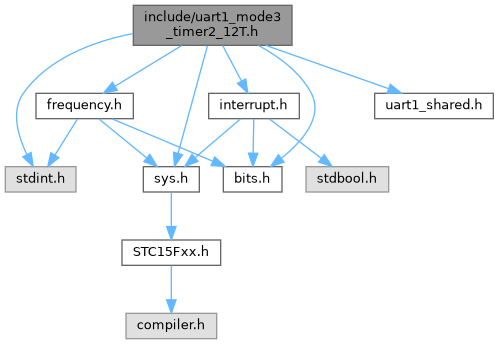
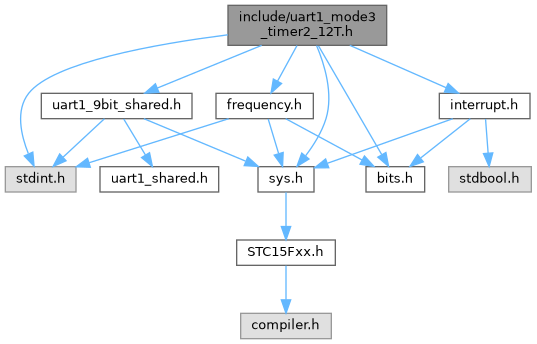
uart1_send_9bit for 9 bit modes 2, 3 C-function implemented

diff --git a/docs/html/sys_8h.html b/docs/html/sys_8h.html
@@ -96,45 +96,45 @@ This graph shows which files directly or indirectly include this file:</div>
 <div class="dyncontent">
 <div class="center"><img src="sys_8h__dep__incl.png" border="0" usemap="#ainclude_2sys_8hdep" alt=""/></div>
 <map name="ainclude_2sys_8hdep" id="ainclude_2sys_8hdep">
-<area shape="rect" title=" " alt="" coords="1633,5,1740,31"/>
+<area shape="rect" title=" " alt="" coords="1459,5,1565,31"/>
 <area shape="rect" href="chip__id_8h.html" title=" " alt="" coords="5,86,136,111"/>
-<area shape="poly" title=" " alt="" coords="1620,23,900,40,470,57,290,68,155,81,115,89,114,83,154,76,290,63,470,52,900,34,1620,18"/>
+<area shape="poly" title=" " alt="" coords="1445,23,806,42,430,59,273,69,155,81,115,89,114,83,154,76,273,64,430,54,806,36,1445,18"/>
 <area shape="rect" href="frequency_8h.html" title=" " alt="" coords="489,86,637,111"/>
-<area shape="poly" title=" " alt="" coords="1620,26,786,81,637,93,637,88,785,76,1620,21"/>
+<area shape="poly" title=" " alt="" coords="1445,27,763,81,637,93,636,88,762,76,1444,22"/>
 <area shape="rect" href="uart1__mode1__timer2__12T_8h.html" title=" " alt="" coords="542,167,701,207"/>
-<area shape="poly" title=" " alt="" coords="1620,24,1357,40,1191,57,1023,81,928,101,834,124,680,169,678,164,833,119,927,96,1022,76,1190,52,1357,35,1620,19"/>
+<area shape="poly" title=" " alt="" coords="1445,21,1333,23,1188,31,1026,49,944,63,865,81,806,100,748,123,656,169,653,164,746,118,804,95,863,76,943,58,1025,44,1187,26,1333,18,1445,16"/>
 <area shape="rect" href="uart1__mode1__timer2__1T_8h.html" title=" " alt="" coords="725,167,883,207"/>
-<area shape="poly" title=" " alt="" coords="1620,27,1424,45,1305,61,1186,81,1096,101,1007,125,861,169,859,164,1006,120,1095,96,1185,76,1304,56,1424,40,1619,21"/>
+<area shape="poly" title=" " alt="" coords="1445,24,1321,29,1172,40,1030,57,973,68,930,81,897,99,867,123,821,168,818,164,863,119,894,95,928,76,972,63,1029,51,1171,34,1321,24,1445,19"/>
 <area shape="rect" href="uart_8h.html" title=" " alt="" coords="118,255,229,280"/>
-<area shape="poly" title=" " alt="" coords="1620,23,1379,26,1048,36,717,53,580,66,476,81,405,95,349,107,298,129,239,169,218,189,202,213,180,256,175,253,197,211,214,186,236,165,295,124,347,102,404,89,476,76,579,61,717,48,1048,31,1379,21,1619,17"/>
+<area shape="poly" title=" " alt="" coords="1445,23,1236,29,956,39,678,56,563,68,476,81,405,95,349,107,298,129,239,169,218,189,202,213,180,256,175,253,197,211,214,186,236,165,295,124,347,102,404,90,476,76,563,63,678,51,956,34,1236,23,1445,18"/>
 <area shape="rect" href="uart1__mode3__timer2__12T_8h.html" title=" " alt="" coords="907,167,1066,207"/>
-<area shape="poly" title=" " alt="" coords="1620,31,1488,51,1335,81,1174,126,1041,169,1039,164,1173,121,1334,76,1487,46,1619,25"/>
-<area shape="rect" href="interrupt_8h.html" title=" " alt="" coords="1508,86,1649,111"/>
-<area shape="poly" title=" " alt="" coords="1661,41,1596,88,1593,84,1658,37"/>
+<area shape="poly" title=" " alt="" coords="1460,37,1313,81,1043,169,1042,164,1311,76,1459,32"/>
+<area shape="rect" href="interrupt_8h.html" title=" " alt="" coords="1441,86,1583,111"/>
+<area shape="poly" title=" " alt="" coords="1515,44,1515,86,1509,86,1509,44"/>
 <area shape="rect" href="timer0__mode0_8h.html" title=" " alt="" coords="1090,174,1270,199"/>
-<area shape="poly" title=" " alt="" coords="1620,35,1535,55,1442,81,1308,132,1205,176,1203,171,1306,127,1441,76,1533,50,1619,30"/>
+<area shape="poly" title=" " alt="" coords="1478,39,1204,176,1202,171,1476,34"/>
 <area shape="rect" href="timer0__mode1_8h.html" title=" " alt="" coords="2425,174,2605,199"/>
-<area shape="poly" title=" " alt="" coords="1690,44,1698,83,1707,101,1720,117,1737,124,1763,131,1842,142,2060,154,2280,159,2412,164,2459,171,2458,177,2412,169,2280,164,2059,160,1842,148,1762,137,1735,129,1717,121,1702,104,1693,84,1685,45"/>
+<area shape="poly" title=" " alt="" coords="1541,37,1653,116,1724,133,1815,144,1918,151,2029,153,2245,156,2338,158,2412,164,2459,171,2458,177,2412,169,2338,164,2245,161,2029,159,1918,156,1814,150,1723,139,1651,121,1538,41"/>
 <area shape="rect" href="timer0__mode2_8h.html" title=" " alt="" coords="2629,174,2809,199"/>
-<area shape="poly" title=" " alt="" coords="1701,42,1729,82,1748,101,1771,116,1805,130,1847,142,1947,156,2062,163,2186,163,2429,159,2534,159,2618,164,2665,171,2664,177,2617,169,2534,164,2430,164,2186,169,2062,168,1946,161,1846,147,1804,135,1768,121,1745,105,1725,85,1697,45"/>
+<area shape="poly" title=" " alt="" coords="1555,34,1645,76,1674,99,1686,108,1704,116,1789,136,1899,148,2024,154,2157,155,2416,156,2528,158,2618,164,2665,171,2664,177,2617,169,2528,163,2416,161,2156,161,2023,159,1898,153,1789,141,1702,121,1683,113,1671,103,1643,81,1553,38"/>
 <area shape="rect" href="timer0__mode3_8h.html" title=" " alt="" coords="2833,174,3013,199"/>
-<area shape="poly" title=" " alt="" coords="1715,37,1768,77,1794,100,1805,108,1821,116,1864,129,1915,139,2034,152,2171,158,2316,159,2601,156,2723,158,2822,164,2869,171,2868,177,2821,169,2723,163,2601,162,2316,164,2171,163,2034,157,1914,144,1863,134,1819,121,1802,113,1790,104,1765,81,1711,41"/>
+<area shape="poly" title=" " alt="" coords="1571,32,1631,51,1693,76,1711,87,1724,98,1736,108,1754,116,1801,128,1855,138,1983,150,2128,156,2284,157,2587,155,2717,157,2822,164,2869,171,2868,177,2821,169,2717,163,2587,161,2284,163,2128,161,1982,156,1854,143,1799,134,1752,121,1733,112,1720,102,1708,92,1691,81,1629,56,1570,37"/>
 <area shape="rect" href="timer2__mode0_8h.html" title=" " alt="" coords="1294,174,1474,199"/>
-<area shape="poly" title=" " alt="" coords="1621,35,1559,53,1497,81,1465,104,1436,130,1395,175,1391,172,1433,126,1462,99,1495,76,1557,48,1619,30"/>
+<area shape="poly" title=" " alt="" coords="1479,40,1454,58,1431,80,1416,104,1404,131,1389,174,1384,173,1399,129,1411,102,1427,77,1451,54,1476,36"/>
 <area shape="rect" href="uart1__mode0_8h.html" title=" " alt="" coords="3037,174,3208,199"/>
-<area shape="poly" title=" " alt="" coords="1728,34,1813,76,1842,99,1854,108,1872,116,1922,130,1980,140,2118,153,2276,159,2444,159,2772,155,2913,157,3026,164,3071,171,3070,177,3025,169,2912,162,2772,161,2444,165,2276,164,2118,159,1979,145,1920,135,1870,121,1851,113,1839,103,1811,81,1725,39"/>
+<area shape="poly" title=" " alt="" coords="1579,28,1659,47,1742,76,1761,87,1774,98,1787,108,1805,116,1858,130,1920,140,2066,153,2233,159,2411,159,2757,155,2906,156,3026,164,3071,171,3070,177,3025,169,2906,162,2757,160,2411,164,2233,164,2066,159,1919,145,1857,135,1803,121,1784,112,1771,102,1758,91,1740,81,1657,52,1578,33"/>
 <area shape="rect" href="uart1__mode2_8h.html" title=" " alt="" coords="3232,174,3403,199"/>
-<area shape="poly" title=" " alt="" coords="1745,32,1802,51,1861,76,1878,87,1889,98,1900,108,1917,116,1973,132,2039,144,2195,158,2373,164,2563,163,2933,156,3093,156,3220,164,3266,171,3266,177,3220,169,3092,162,2933,161,2563,168,2373,169,2195,164,2039,149,1972,137,1915,121,1897,112,1886,102,1874,92,1859,81,1800,56,1744,37"/>
-<area shape="rect" href="pin_8h.html" title=" " alt="" coords="1927,86,2033,111"/>
-<area shape="poly" title=" " alt="" coords="1743,32,1938,83,1937,89,1742,37"/>
-<area shape="rect" href="power__management_8h.html" title=" " alt="" coords="2057,86,2276,111"/>
-<area shape="poly" title=" " alt="" coords="1754,28,2097,83,2096,89,1753,33"/>
-<area shape="rect" href="reset_8h.html" title=" " alt="" coords="2301,86,2419,111"/>
-<area shape="poly" title=" " alt="" coords="1754,20,1991,37,2139,54,2288,76,2321,83,2320,89,2288,81,2139,59,1990,43,1753,25"/>
-<area shape="rect" href="uart1__9bit__shared_8h_source.html" title=" " alt="" coords="2444,79,2583,119"/>
-<area shape="poly" title=" " alt="" coords="1754,19,2049,35,2240,52,2432,76,2444,78,2443,83,2432,81,2240,57,2049,40,1754,24"/>
-<area shape="rect" href="wdt_8h.html" title=" " alt="" coords="2607,86,2716,111"/>
-<area shape="poly" title=" " alt="" coords="1754,16,1905,18,2114,26,2354,44,2476,58,2595,76,2627,83,2625,89,2594,81,2475,64,2353,50,2114,32,1905,24,1754,22"/>
+<area shape="poly" title=" " alt="" coords="1580,24,1681,42,1738,57,1792,76,1809,87,1821,98,1833,108,1850,116,1887,124,1944,131,2103,141,2532,151,2962,156,3124,159,3220,164,3266,171,3266,177,3220,169,3123,164,2962,161,2532,157,2103,146,1943,136,1886,129,1848,121,1830,112,1818,102,1806,91,1790,81,1736,62,1680,47,1579,29"/>
+<area shape="rect" href="pin_8h.html" title=" " alt="" coords="1861,86,1966,111"/>
+<area shape="poly" title=" " alt="" coords="1580,27,1702,48,1842,76,1872,83,1871,89,1841,81,1701,54,1579,33"/>
+<area shape="rect" href="power__management_8h.html" title=" " alt="" coords="1991,86,2209,111"/>
+<area shape="poly" title=" " alt="" coords="1579,25,1979,76,2029,83,2028,89,1978,81,1579,30"/>
+<area shape="rect" href="reset_8h.html" title=" " alt="" coords="2234,86,2353,111"/>
+<area shape="poly" title=" " alt="" coords="1579,18,1860,34,2041,51,2222,76,2255,83,2254,89,2221,81,2040,56,1860,39,1579,24"/>
+<area shape="rect" href="uart1__9bit__shared_8h_source.html" title=" " alt="" coords="941,79,1080,119"/>
+<area shape="poly" title=" " alt="" coords="1445,32,1081,89,1080,84,1444,27"/>
+<area shape="rect" href="wdt_8h.html" title=" " alt="" coords="2377,86,2487,111"/>
+<area shape="poly" title=" " alt="" coords="1579,17,1722,19,1918,28,2141,46,2255,59,2366,76,2397,83,2396,89,2365,81,2254,64,2140,51,1918,33,1722,25,1579,22"/>
 <area shape="rect" href="delay_8h.html" title=" " alt="" coords="650,255,769,280"/>
 <area shape="poly" title=" " alt="" coords="547,124,535,143,527,165,524,186,531,205,549,219,579,232,652,252,651,257,577,237,547,224,527,208,519,187,522,163,531,141,542,122"/>
 <area shape="rect" href="timer0__to__ms_8h.html" title=" " alt="" coords="253,255,427,280"/>
@@ -152,29 +152,30 @@ This graph shows which files directly or indirectly include this file:</div>
 <area shape="poly" title=" " alt="" coords="400,209,510,252,508,257,398,214"/>
 <area shape="poly" title=" " alt="" coords="711,209,578,226,474,235,371,242,240,257,229,259,229,254,240,252,370,237,473,229,577,221,711,204"/>
 <area shape="poly" title=" " alt="" coords="243,278,580,327,579,332,242,283"/>
-<area shape="poly" title=" " alt="" coords="1494,106,1152,125,933,143,712,169,701,171,700,166,712,164,932,138,1151,119,1494,100"/>
-<area shape="poly" title=" " alt="" coords="1495,108,1227,130,1061,147,895,169,884,171,883,166,894,164,1060,142,1226,124,1494,103"/>
-<area shape="poly" title=" " alt="" coords="1495,112,1303,136,1078,169,1067,171,1066,166,1077,164,1303,130,1494,107"/>
+<area shape="poly" title=" " alt="" coords="1428,106,1112,127,913,145,712,169,701,171,700,166,712,164,912,139,1112,121,1427,101"/>
+<area shape="poly" title=" " alt="" coords="1428,109,1188,132,1041,149,895,169,884,171,883,166,894,164,1041,143,1187,127,1427,104"/>
+<area shape="poly" title=" " alt="" coords="1428,114,1265,138,1078,169,1067,171,1066,166,1077,164,1265,133,1427,109"/>
 <area shape="rect" href="counter0__mode0_8h.html" title=" " alt="" coords="1549,174,1744,199"/>
-<area shape="poly" title=" " alt="" coords="1599,121,1639,172,1635,175,1594,124"/>
+<area shape="poly" title=" " alt="" coords="1543,117,1630,171,1627,176,1540,121"/>
 <area shape="rect" href="counter0__mode1_8h.html" title=" " alt="" coords="1104,255,1299,280"/>
-<area shape="poly" title=" " alt="" coords="1567,125,1534,168,1512,190,1487,209,1441,231,1393,246,1299,264,1298,258,1392,241,1439,226,1484,204,1509,186,1530,165,1563,121"/>
+<area shape="poly" title=" " alt="" coords="1515,126,1510,168,1501,190,1487,209,1456,226,1410,241,1299,259,1298,254,1408,235,1454,222,1484,205,1496,187,1504,167,1510,125"/>
 <area shape="rect" href="counter0__mode2_8h.html" title=" " alt="" coords="1768,174,1963,199"/>
-<area shape="poly" title=" " alt="" coords="1631,113,1828,171,1826,176,1629,118"/>
+<area shape="poly" title=" " alt="" coords="1573,112,1819,171,1818,177,1572,117"/>
 <area shape="rect" href="counter0__mode3_8h.html" title=" " alt="" coords="1987,174,2181,199"/>
-<area shape="poly" title=" " alt="" coords="1645,111,1668,116,1822,141,1975,164,2019,171,2018,177,1974,169,1821,146,1668,121,1644,117"/>
+<area shape="poly" title=" " alt="" coords="1577,111,1602,116,1706,132,1788,141,1975,164,2020,171,2019,177,1974,169,1788,146,1706,137,1601,121,1576,117"/>
 <area shape="rect" href="counter2__mode0_8h.html" title=" " alt="" coords="2205,174,2400,199"/>
-<area shape="poly" title=" " alt="" coords="1642,111,1668,116,1815,134,1931,142,2046,149,2194,164,2241,171,2241,177,2193,169,2046,154,1930,147,1815,139,1668,121,1641,117"/>
-<area shape="poly" title=" " alt="" coords="1513,117,1234,177,1232,171,1512,112"/>
-<area shape="poly" title=" " alt="" coords="1641,111,1668,116,1781,129,1877,137,2040,142,2203,146,2299,152,2412,164,2459,171,2458,177,2412,169,2299,158,2203,151,2040,147,1876,142,1780,135,1668,121,1640,117"/>
-<area shape="poly" title=" " alt="" coords="1663,110,1719,116,1856,127,1971,133,2168,136,2365,142,2481,150,2618,164,2665,171,2664,177,2617,169,2481,155,2365,147,2168,142,1971,138,1855,132,1718,121,1663,115"/>
-<area shape="poly" title=" " alt="" coords="1663,107,1770,116,1930,125,2065,130,2296,133,2527,139,2662,148,2822,164,2869,171,2868,177,2821,169,2662,153,2526,144,2296,138,2065,135,1929,131,1769,121,1663,112"/>
-<area shape="poly" title=" " alt="" coords="1541,120,1412,176,1409,171,1539,115"/>
-<area shape="poly" title=" " alt="" coords="1663,105,1820,116,2004,125,2159,128,2424,129,2688,135,2843,146,3026,164,3071,171,3070,177,3025,169,2842,151,2687,140,2424,134,2159,133,2004,130,1820,121,1663,110"/>
-<area shape="poly" title=" " alt="" coords="1663,103,1871,116,2076,124,2251,127,2546,126,2689,127,2842,132,3016,144,3220,164,3266,171,3266,177,3220,169,3015,149,2842,138,2689,132,2546,131,2250,132,2076,129,1871,121,1663,109"/>
+<area shape="poly" title=" " alt="" coords="1575,111,1602,116,1767,135,1897,142,2027,148,2194,164,2242,171,2241,177,2193,169,2027,153,1897,147,1767,140,1601,121,1574,117"/>
+<area shape="poly" title=" " alt="" coords="1455,117,1225,177,1224,171,1454,112"/>
+<area shape="poly" title=" " alt="" coords="1574,111,1602,116,1724,130,1829,138,2007,142,2185,145,2289,152,2412,164,2459,171,2458,177,2412,169,2289,157,2184,150,2006,147,1828,143,1724,135,1601,121,1573,117"/>
+<area shape="poly" title=" " alt="" coords="1597,110,1652,116,1799,127,1923,133,2135,136,2347,141,2471,149,2618,164,2665,171,2664,177,2617,169,2471,155,2347,146,2135,141,1923,138,1799,133,1652,121,1596,115"/>
+<area shape="poly" title=" " alt="" coords="1597,107,1703,116,1873,126,2017,130,2263,132,2508,138,2652,147,2822,164,2869,171,2868,177,2821,169,2651,153,2508,143,2263,137,2017,136,1873,131,1702,121,1596,112"/>
+<area shape="poly" title=" " alt="" coords="1485,121,1403,176,1400,172,1482,117"/>
+<area shape="poly" title=" " alt="" coords="1596,105,1753,116,1947,125,2111,128,2390,128,2525,129,2669,134,2833,145,3026,164,3072,171,3071,177,3025,169,2832,150,2669,139,2525,135,2390,133,2111,134,1947,130,1753,121,1596,110"/>
+<area shape="poly" title=" " alt="" coords="1597,103,1804,116,2020,124,2203,127,2513,125,2663,126,2823,131,3006,143,3220,164,3266,171,3266,177,3220,169,3005,148,2823,137,2663,131,2513,131,2203,132,2020,129,1804,121,1596,109"/>
 <area shape="poly" title=" " alt="" coords="1117,285,828,331,827,325,1116,280"/>
 <area shape="poly" title=" " alt="" coords="1111,204,1078,209,898,228,759,237,618,244,439,257,428,258,427,253,438,252,618,238,758,231,898,223,1077,204,1110,199"/>
 <area shape="poly" title=" " alt="" coords="1315,204,1282,209,1101,228,960,237,819,244,638,257,627,258,626,253,637,252,818,238,960,232,1101,223,1281,204,1314,199"/>
+<area shape="poly" title=" " alt="" coords="1004,133,995,167,989,166,999,131"/>
 </map>
 </div>
 </div>

diff --git a/docs/html/uart1__mode3__timer2__12T_8h.html b/docs/html/uart1__mode3__timer2__12T_8h.html
@@ -84,36 +84,40 @@ $(function() {
 <code>#include &lt;bits.h&gt;</code><br />
 <code>#include &lt;<a class="el" href="frequency_8h_source.html">frequency.h</a>&gt;</code><br />
 <code>#include &lt;<a class="el" href="interrupt_8h_source.html">interrupt.h</a>&gt;</code><br />
-<code>#include &lt;<a class="el" href="uart1__shared_8h_source.html">uart1_shared.h</a>&gt;</code><br />
+<code>#include &lt;uart1_9bit_shared.h&gt;</code><br />
 </div><div class="textblock"><div class="dynheader">
 Include dependency graph for uart1_mode3_timer2_12T.h:</div>
 <div class="dyncontent">
 <div class="center"><img src="uart1__mode3__timer2__12T_8h__incl.png" border="0" usemap="#ainclude_2uart1__mode3__timer2__12T_8h" alt=""/></div>
 <map name="ainclude_2uart1__mode3__timer2__12T_8h" id="ainclude_2uart1__mode3__timer2__12T_8h">
-<area shape="rect" title=" " alt="" coords="133,5,292,45"/>
+<area shape="rect" title=" " alt="" coords="228,5,387,45"/>
 <area shape="rect" title=" " alt="" coords="5,167,76,192"/>
-<area shape="poly" title=" " alt="" coords="134,36,103,44,74,56,47,72,26,95,20,108,20,123,29,154,24,155,14,124,15,107,21,92,44,68,71,51,102,39,132,31"/>
-<area shape="rect" href="sys_8h.html" title=" " alt="" coords="143,167,199,192"/>
-<area shape="poly" title=" " alt="" coords="210,47,181,154,175,153,205,45"/>
-<area shape="rect" href="bits_8h_source.html" title=" " alt="" coords="223,167,282,192"/>
-<area shape="poly" title=" " alt="" coords="260,43,290,63,314,92,317,111,311,130,299,146,283,160,280,156,295,143,306,127,312,111,309,94,286,67,257,48"/>
-<area shape="rect" href="frequency_8h.html" title=" " alt="" coords="36,93,133,119"/>
-<area shape="poly" title=" " alt="" coords="183,48,116,88,114,84,180,43"/>
-<area shape="rect" href="interrupt_8h.html" title=" " alt="" coords="209,93,299,119"/>
-<area shape="poly" title=" " alt="" coords="225,44,244,80,239,82,220,47"/>
-<area shape="rect" href="uart1__shared_8h.html" title=" " alt="" coords="375,93,493,119"/>
-<area shape="poly" title=" " alt="" coords="267,43,389,86,388,91,265,48"/>
-<area shape="rect" href="STC15Fxx_8h_source.html" title=" " alt="" coords="122,240,221,265"/>
-<area shape="poly" title=" " alt="" coords="174,192,174,226,169,226,169,192"/>
-<area shape="rect" title=" " alt="" coords="126,313,217,339"/>
-<area shape="poly" title=" " alt="" coords="174,266,174,300,169,300,169,266"/>
-<area shape="poly" title=" " alt="" coords="80,120,57,156,53,154,75,118"/>
-<area shape="poly" title=" " alt="" coords="100,117,148,156,145,160,97,121"/>
-<area shape="poly" title=" " alt="" coords="113,116,214,159,212,164,111,121"/>
-<area shape="poly" title=" " alt="" coords="242,121,197,160,194,155,239,117"/>
-<area shape="poly" title=" " alt="" coords="256,119,256,153,250,153,251,119"/>
-<area shape="rect" title=" " alt="" coords="306,167,389,192"/>
-<area shape="poly" title=" " alt="" coords="271,117,323,156,320,160,267,121"/>
+<area shape="poly" title=" " alt="" coords="228,37,170,46,111,59,61,75,43,84,31,95,25,108,23,123,31,153,26,154,18,123,19,107,27,92,40,80,59,70,109,53,169,41,227,32"/>
+<area shape="rect" href="sys_8h.html" title=" " alt="" coords="258,167,314,192"/>
+<area shape="poly" title=" " alt="" coords="319,45,330,79,332,100,329,119,320,140,308,157,303,154,315,137,323,118,326,99,325,80,314,46"/>
+<area shape="rect" href="bits_8h_source.html" title=" " alt="" coords="366,167,425,192"/>
+<area shape="poly" title=" " alt="" coords="321,44,384,153,379,156,316,47"/>
+<area shape="rect" href="frequency_8h.html" title=" " alt="" coords="216,93,313,119"/>
+<area shape="poly" title=" " alt="" coords="299,47,280,83,275,80,295,44"/>
+<area shape="rect" href="interrupt_8h.html" title=" " alt="" coords="439,93,530,119"/>
+<area shape="poly" title=" " alt="" coords="351,43,447,85,445,90,349,48"/>
+<area shape="rect" href="uart1__9bit__shared_8h_source.html" title=" " alt="" coords="41,93,192,119"/>
+<area shape="poly" title=" " alt="" coords="263,48,158,91,156,86,261,43"/>
+<area shape="rect" href="STC15Fxx_8h_source.html" title=" " alt="" coords="237,240,335,265"/>
+<area shape="poly" title=" " alt="" coords="289,192,289,226,283,226,283,192"/>
+<area shape="rect" title=" " alt="" coords="241,313,331,339"/>
+<area shape="poly" title=" " alt="" coords="289,266,289,300,283,300,283,266"/>
+<area shape="poly" title=" " alt="" coords="229,121,90,165,88,160,228,116"/>
+<area shape="poly" title=" " alt="" coords="271,118,281,153,276,154,266,120"/>
+<area shape="poly" title=" " alt="" coords="287,116,363,158,361,162,284,121"/>
+<area shape="poly" title=" " alt="" coords="454,121,328,166,327,161,452,116"/>
+<area shape="poly" title=" " alt="" coords="472,121,422,160,419,156,469,117"/>
+<area shape="rect" title=" " alt="" coords="449,167,531,192"/>
+<area shape="poly" title=" " alt="" coords="488,119,491,153,485,153,483,119"/>
+<area shape="poly" title=" " alt="" coords="106,121,65,159,61,155,103,117"/>
+<area shape="poly" title=" " alt="" coords="145,116,247,159,245,164,143,121"/>
+<area shape="rect" href="uart1__shared_8h.html" title=" " alt="" coords="100,167,219,192"/>
+<area shape="poly" title=" " alt="" coords="126,118,148,154,143,156,121,120"/>
 </map>
 </div>
 </div>

diff --git a/docs/html/uart1__shared_8h.html b/docs/html/uart1__shared_8h.html
@@ -84,22 +84,24 @@ This graph shows which files directly or indirectly include this file:</div>
 <div class="dyncontent">
 <div class="center"><img src="uart1__shared_8h__dep__incl.png" border="0" usemap="#ainclude_2uart1__shared_8hdep" alt=""/></div>
 <map name="ainclude_2uart1__shared_8hdep" id="ainclude_2uart1__shared_8hdep">
-<area shape="rect" title=" " alt="" coords="309,5,480,31"/>
-<area shape="rect" href="uart_8h.html" title=" " alt="" coords="183,167,294,192"/>
-<area shape="poly" title=" " alt="" coords="295,24,215,28,132,38,62,55,36,67,19,80,9,99,13,115,27,129,51,141,116,159,183,170,182,175,115,165,50,146,24,134,8,118,4,99,15,77,33,62,60,50,131,33,214,23,295,18"/>
-<area shape="rect" href="uart1__mode0_8h.html" title=" " alt="" coords="29,86,200,111"/>
-<area shape="poly" title=" " alt="" coords="341,37,156,89,154,83,340,32"/>
-<area shape="rect" href="uart1__mode1__timer2__12T_8h.html" title=" " alt="" coords="224,79,383,119"/>
-<area shape="poly" title=" " alt="" coords="372,42,327,81,324,76,369,38"/>
-<area shape="rect" href="uart1__mode1__timer2__1T_8h.html" title=" " alt="" coords="407,79,566,119"/>
-<area shape="poly" title=" " alt="" coords="420,38,466,76,462,81,416,42"/>
-<area shape="rect" href="uart1__mode2_8h.html" title=" " alt="" coords="590,86,761,111"/>
-<area shape="poly" title=" " alt="" coords="449,32,635,83,634,89,448,37"/>
-<area shape="rect" href="uart1__mode3__timer2__12T_8h.html" title=" " alt="" coords="786,79,944,119"/>
-<area shape="poly" title=" " alt="" coords="487,30,773,76,786,78,785,84,772,81,486,35"/>
-<area shape="rect" href="counter0__mode1__example_8c.html" title=" " alt="" coords="109,240,368,280"/>
-<area shape="poly" title=" " alt="" coords="241,206,241,240,236,240,236,206"/>
-<area shape="poly" title=" " alt="" coords="414,125,275,169,274,164,413,120"/>
+<area shape="rect" title=" " alt="" coords="323,5,494,31"/>
+<area shape="rect" href="uart_8h.html" title=" " alt="" coords="409,174,520,199"/>
+<area shape="poly" title=" " alt="" coords="319,36,271,49,232,67,219,78,212,89,211,102,219,117,230,127,248,137,298,154,410,176,409,181,296,159,246,142,227,132,215,120,206,103,207,88,215,74,229,63,269,44,318,31"/>
+<area shape="rect" href="uart1__9bit__shared_8h_source.html" title=" " alt="" coords="15,79,154,119"/>
+<area shape="poly" title=" " alt="" coords="349,36,155,83,154,78,348,31"/>
+<area shape="rect" href="uart1__mode0_8h.html" title=" " alt="" coords="229,86,399,111"/>
+<area shape="poly" title=" " alt="" coords="386,42,330,88,326,84,382,38"/>
+<area shape="rect" href="uart1__mode1__timer2__12T_8h.html" title=" " alt="" coords="424,79,583,119"/>
+<area shape="poly" title=" " alt="" coords="435,37,482,76,479,81,431,41"/>
+<area shape="rect" href="uart1__mode1__timer2__1T_8h.html" title=" " alt="" coords="607,79,765,119"/>
+<area shape="poly" title=" " alt="" coords="463,32,620,76,619,81,462,37"/>
+<area shape="rect" href="uart1__mode2_8h.html" title=" " alt="" coords="790,86,961,111"/>
+<area shape="poly" title=" " alt="" coords="498,30,778,76,818,83,817,89,778,81,497,35"/>
+<area shape="rect" href="counter0__mode1__example_8c.html" title=" " alt="" coords="335,255,594,295"/>
+<area shape="poly" title=" " alt="" coords="467,213,467,254,462,254,462,213"/>
+<area shape="rect" href="uart1__mode3__timer2__12T_8h.html" title=" " alt="" coords="5,167,164,207"/>
+<area shape="poly" title=" " alt="" coords="87,133,87,166,82,166,82,133"/>
+<area shape="poly" title=" " alt="" coords="626,126,495,176,493,171,624,121"/>
 </map>
 </div>
 </div>

diff --git a/docs/html/uart1__mode3__timer2__12T_8h_source.html b/docs/html/uart1__mode3__timer2__12T_8h_source.html
@@ -90,7 +90,7 @@ $(document).ready(function() { init_codefold(0); });
 <div class="line"><a id="l00007" name="l00007"></a><span class="lineno">    7</span><span class="preprocessor">#include &lt;bits.h&gt;</span></div>
 <div class="line"><a id="l00008" name="l00008"></a><span class="lineno">    8</span><span class="preprocessor">#include &lt;<a class="code" href="frequency_8h.html">frequency.h</a>&gt;</span></div>
 <div class="line"><a id="l00009" name="l00009"></a><span class="lineno">    9</span><span class="preprocessor">#include &lt;<a class="code" href="interrupt_8h.html">interrupt.h</a>&gt;</span></div>
-<div class="line"><a id="l00010" name="l00010"></a><span class="lineno">   10</span><span class="preprocessor">#include &lt;<a class="code" href="uart1__shared_8h.html">uart1_shared.h</a>&gt;</span></div>
+<div class="line"><a id="l00010" name="l00010"></a><span class="lineno">   10</span><span class="preprocessor">#include &lt;uart1_9bit_shared.h&gt;</span></div>
 <div class="line"><a id="l00011" name="l00011"></a><span class="lineno">   11</span> </div>
 <div class="foldopen" id="foldopen00067" data-start="{" data-end="};">
 <div class="line"><a id="l00067" name="l00067"></a><span class="lineno"><a class="line" href="group__uart1__mode3__timer2__12T.html#ga6250d834ff15b17fe8b5fa26d79b7261">   67</a></span><span class="keyword">typedef</span> <span class="keyword">enum</span> </div>
@@ -171,7 +171,6 @@ $(document).ready(function() { init_codefold(0); });
 <div class="ttc" id="agroup__uart1__mode3__timer2__12T_html_gga6250d834ff15b17fe8b5fa26d79b7261ac3012764c007764284487b2cbee4b550"><div class="ttname"><a href="group__uart1__mode3__timer2__12T.html#gga6250d834ff15b17fe8b5fa26d79b7261ac3012764c007764284487b2cbee4b550">baudrate_4800</a></div><div class="ttdeci">@ baudrate_4800</div><div class="ttdoc">4800 baudrate</div><div class="ttdef"><b>Definition</b> uart1_mode3_timer2_12T.h:74</div></div>
 <div class="ttc" id="ainterrupt_8h_html"><div class="ttname"><a href="interrupt_8h.html">interrupt.h</a></div></div>
 <div class="ttc" id="asys_8h_html"><div class="ttname"><a href="sys_8h.html">sys.h</a></div></div>
-<div class="ttc" id="auart1__shared_8h_html"><div class="ttname"><a href="uart1__shared_8h.html">uart1_shared.h</a></div></div>
 </div><!-- fragment --></div><!-- contents -->
 <!-- start footer part -->
 <hr class="footer"/><address class="footer"><small>

diff --git a/docs/html/uart1__9bit__shared_8h_source.html b/docs/html/uart1__9bit__shared_8h_source.html
@@ -87,11 +87,13 @@ $(document).ready(function() { init_codefold(0); });
 <div class="line"><a id="l00004" name="l00004"></a><span class="lineno">    4</span><span class="preprocessor">#include &lt;stdint.h&gt;</span></div>
 <div class="line"><a id="l00005" name="l00005"></a><span class="lineno">    5</span> </div>
 <div class="line"><a id="l00006" name="l00006"></a><span class="lineno">    6</span><span class="preprocessor">#include &lt;<a class="code" href="sys_8h.html">sys.h</a>&gt;</span></div>
-<div class="line"><a id="l00007" name="l00007"></a><span class="lineno">    7</span> </div>
-<div class="line"><a id="l00008" name="l00008"></a><span class="lineno">    8</span><span class="keywordtype">void</span> uart1_send_9bit(uint8_t <span class="keywordtype">byte</span>, __bit nineth);</div>
-<div class="line"><a id="l00009" name="l00009"></a><span class="lineno">    9</span> </div>
-<div class="line"><a id="l00010" name="l00010"></a><span class="lineno">   10</span><span class="preprocessor">#endif</span></div>
+<div class="line"><a id="l00007" name="l00007"></a><span class="lineno">    7</span><span class="preprocessor">#include &lt;<a class="code" href="uart1__shared_8h.html">uart1_shared.h</a>&gt;</span></div>
+<div class="line"><a id="l00008" name="l00008"></a><span class="lineno">    8</span> </div>
+<div class="line"><a id="l00009" name="l00009"></a><span class="lineno">    9</span><span class="keywordtype">void</span> uart1_send_9bit(uint8_t <span class="keywordtype">byte</span>, __bit nineth);</div>
+<div class="line"><a id="l00010" name="l00010"></a><span class="lineno">   10</span> </div>
+<div class="line"><a id="l00011" name="l00011"></a><span class="lineno">   11</span><span class="preprocessor">#endif</span></div>
 <div class="ttc" id="asys_8h_html"><div class="ttname"><a href="sys_8h.html">sys.h</a></div></div>
+<div class="ttc" id="auart1__shared_8h_html"><div class="ttname"><a href="uart1__shared_8h.html">uart1_shared.h</a></div></div>
 </div><!-- fragment --></div><!-- contents -->
 <!-- start footer part -->
 <hr class="footer"/><address class="footer"><small>

diff --git a/examples/uart/mode3/timer2/uart1_mode3_timer2_12T_example.c b/examples/uart/mode3/timer2/uart1_mode3_timer2_12T_example.c
@@ -18,11 +18,11 @@ void main()
     {
         LED = !LED;
 
-        uart1_send_byte(' ');
-        uart1_send_byte('O');
-        uart1_send_byte('k');
-        uart1_send_byte('\r');
-        uart1_send_byte('\n');
+        uart1_send_9bit(' ', 0);
+        uart1_send_9bit('O', 1);
+        uart1_send_9bit('k', 1);
+        uart1_send_9bit('\r', 0);
+        uart1_send_9bit('\n', 0);
 
         delay_ms(500);
     }

diff --git a/include/uart1_mode3_timer2_12T.h b/include/uart1_mode3_timer2_12T.h
@@ -7,7 +7,7 @@
 #include <bits.h>
 #include <frequency.h>
 #include <interrupt.h>
-#include <uart1_shared.h>
+#include <uart1_9bit_shared.h>
 
 /**
  * @file uart1_mode3_timer2_12T.h

diff --git a/include/uart1_9bit_shared.h b/include/uart1_9bit_shared.h
@@ -4,6 +4,7 @@
 #include <stdint.h>
 
 #include <sys.h>
+#include <uart1_shared.h>
 
 void uart1_send_9bit(uint8_t byte, __bit nineth);
 

diff --git a/src/uart1_9bit_shared.c b/src/uart1_9bit_shared.c
@@ -2,5 +2,7 @@
 
 void uart1_send_9bit(uint8_t byte, __bit nineth)
 {
-    
+   TB8 = nineth;
+   uart1_send_byte(byte);
+
 }
